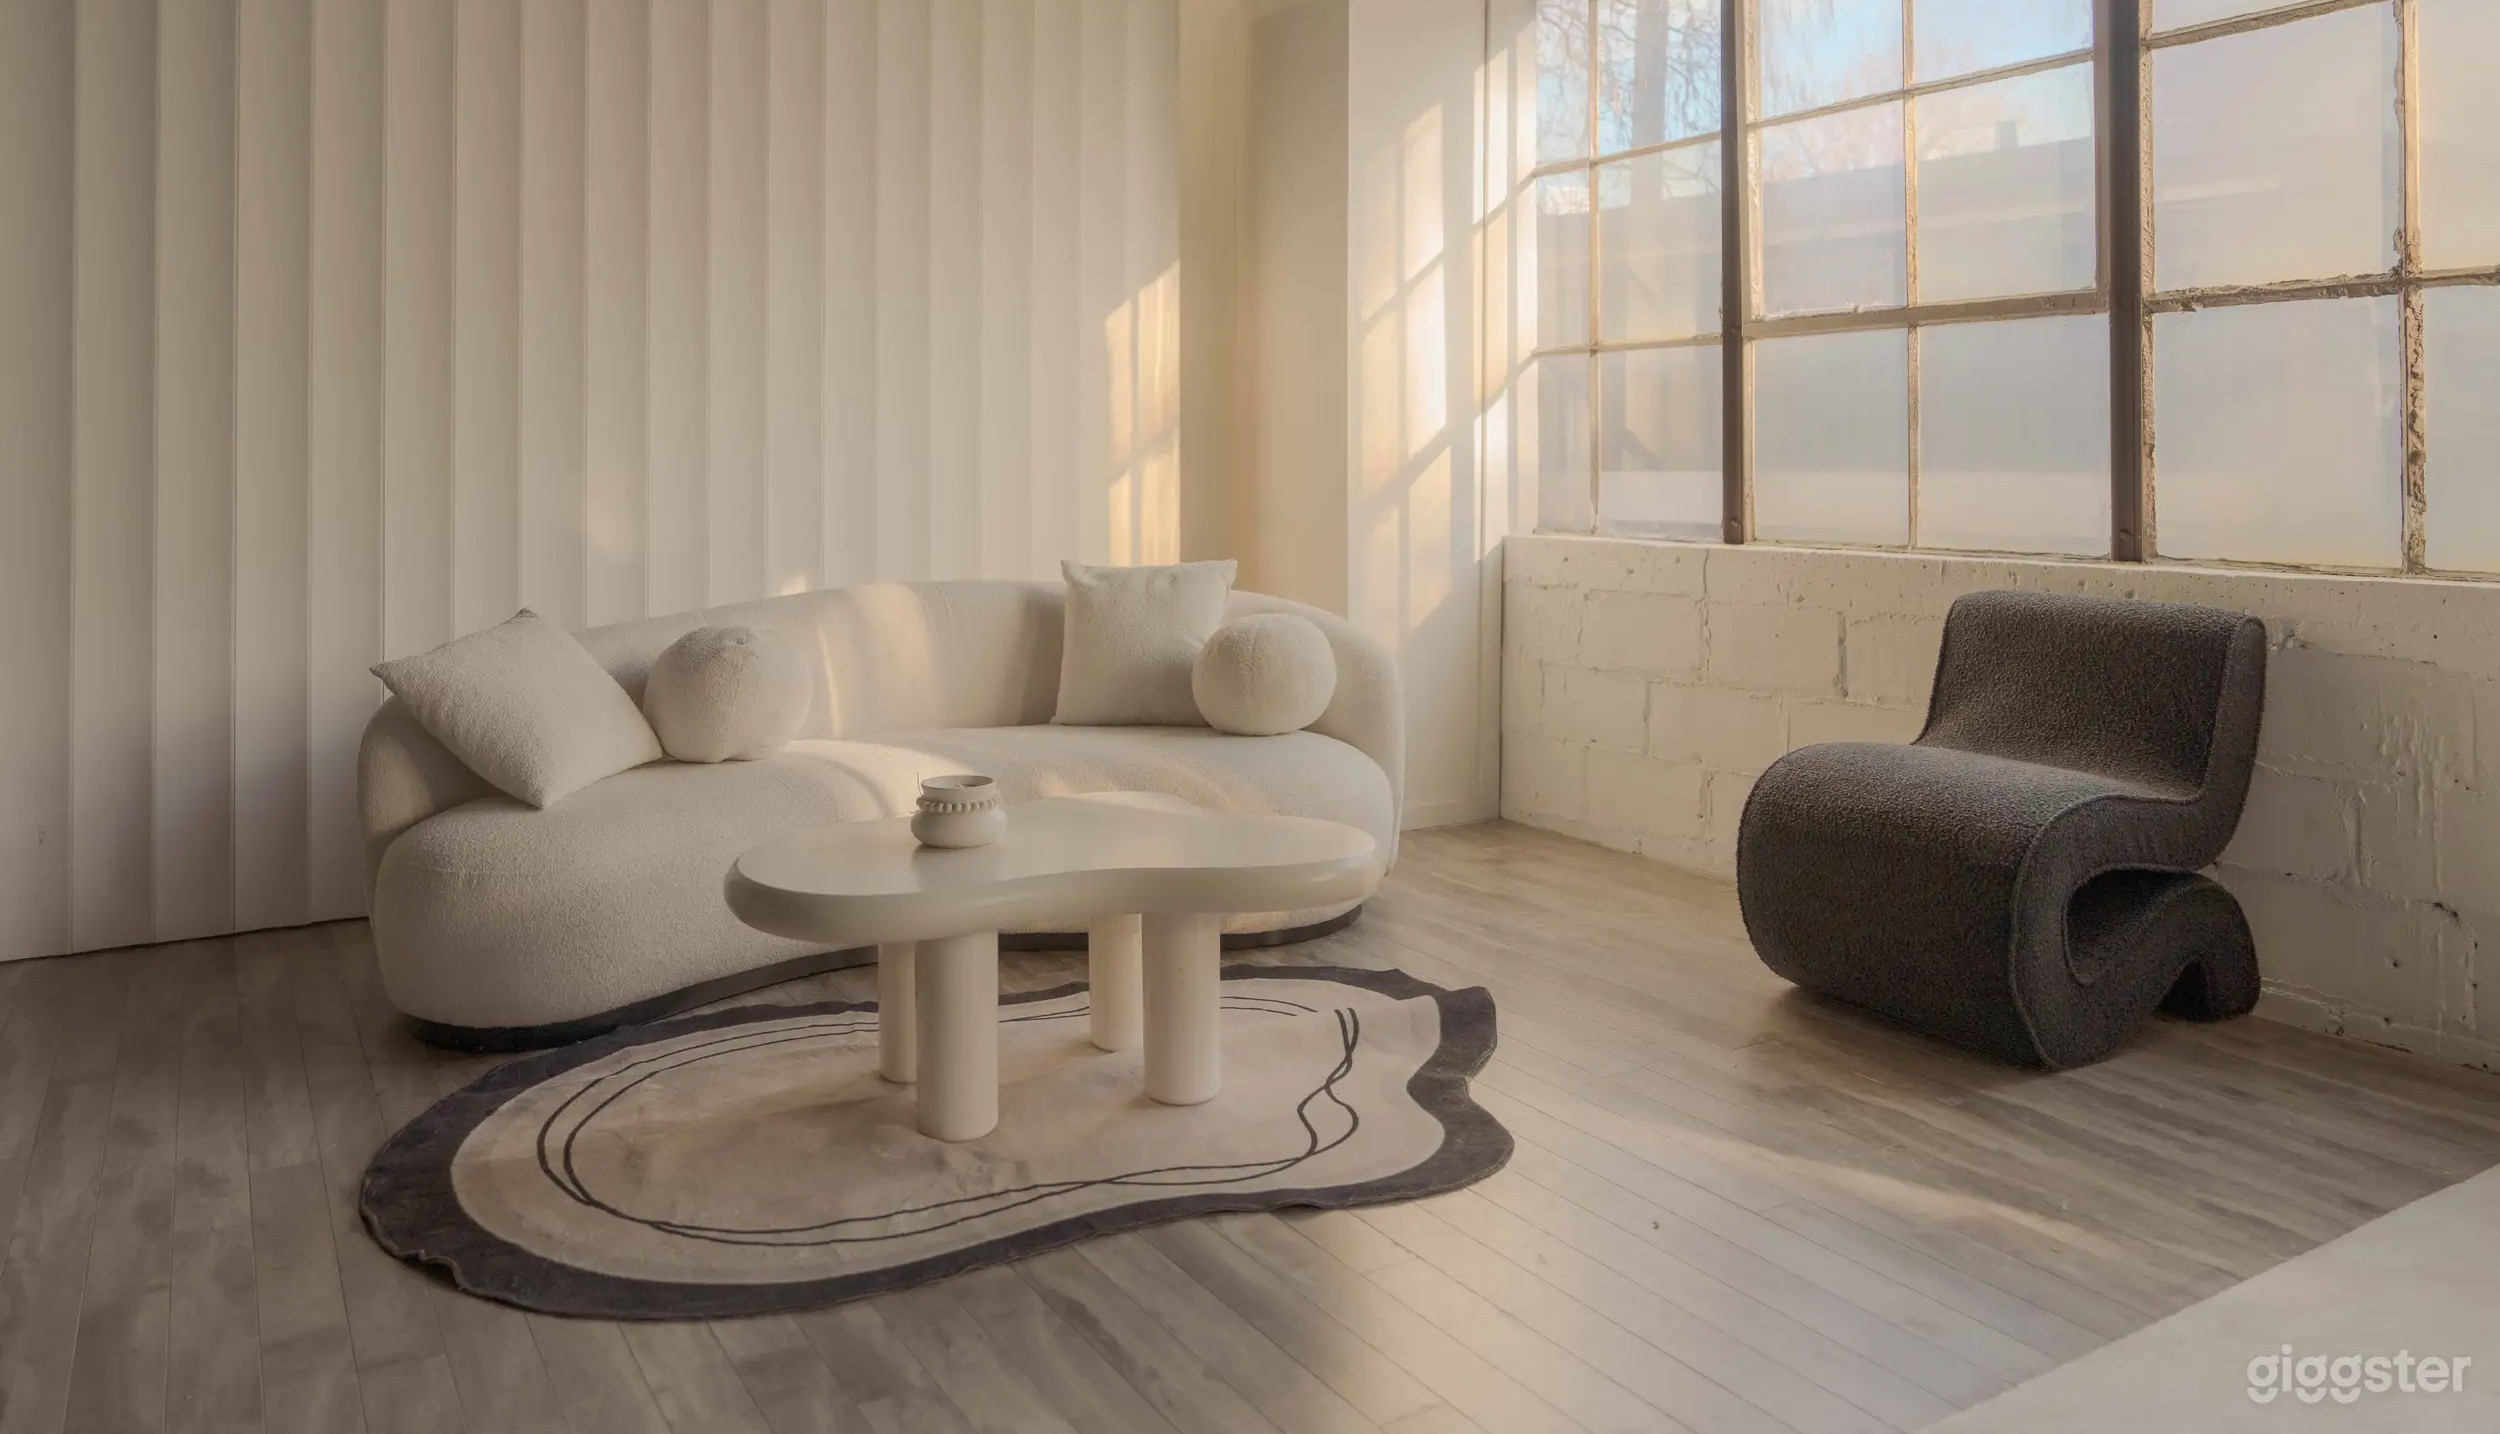
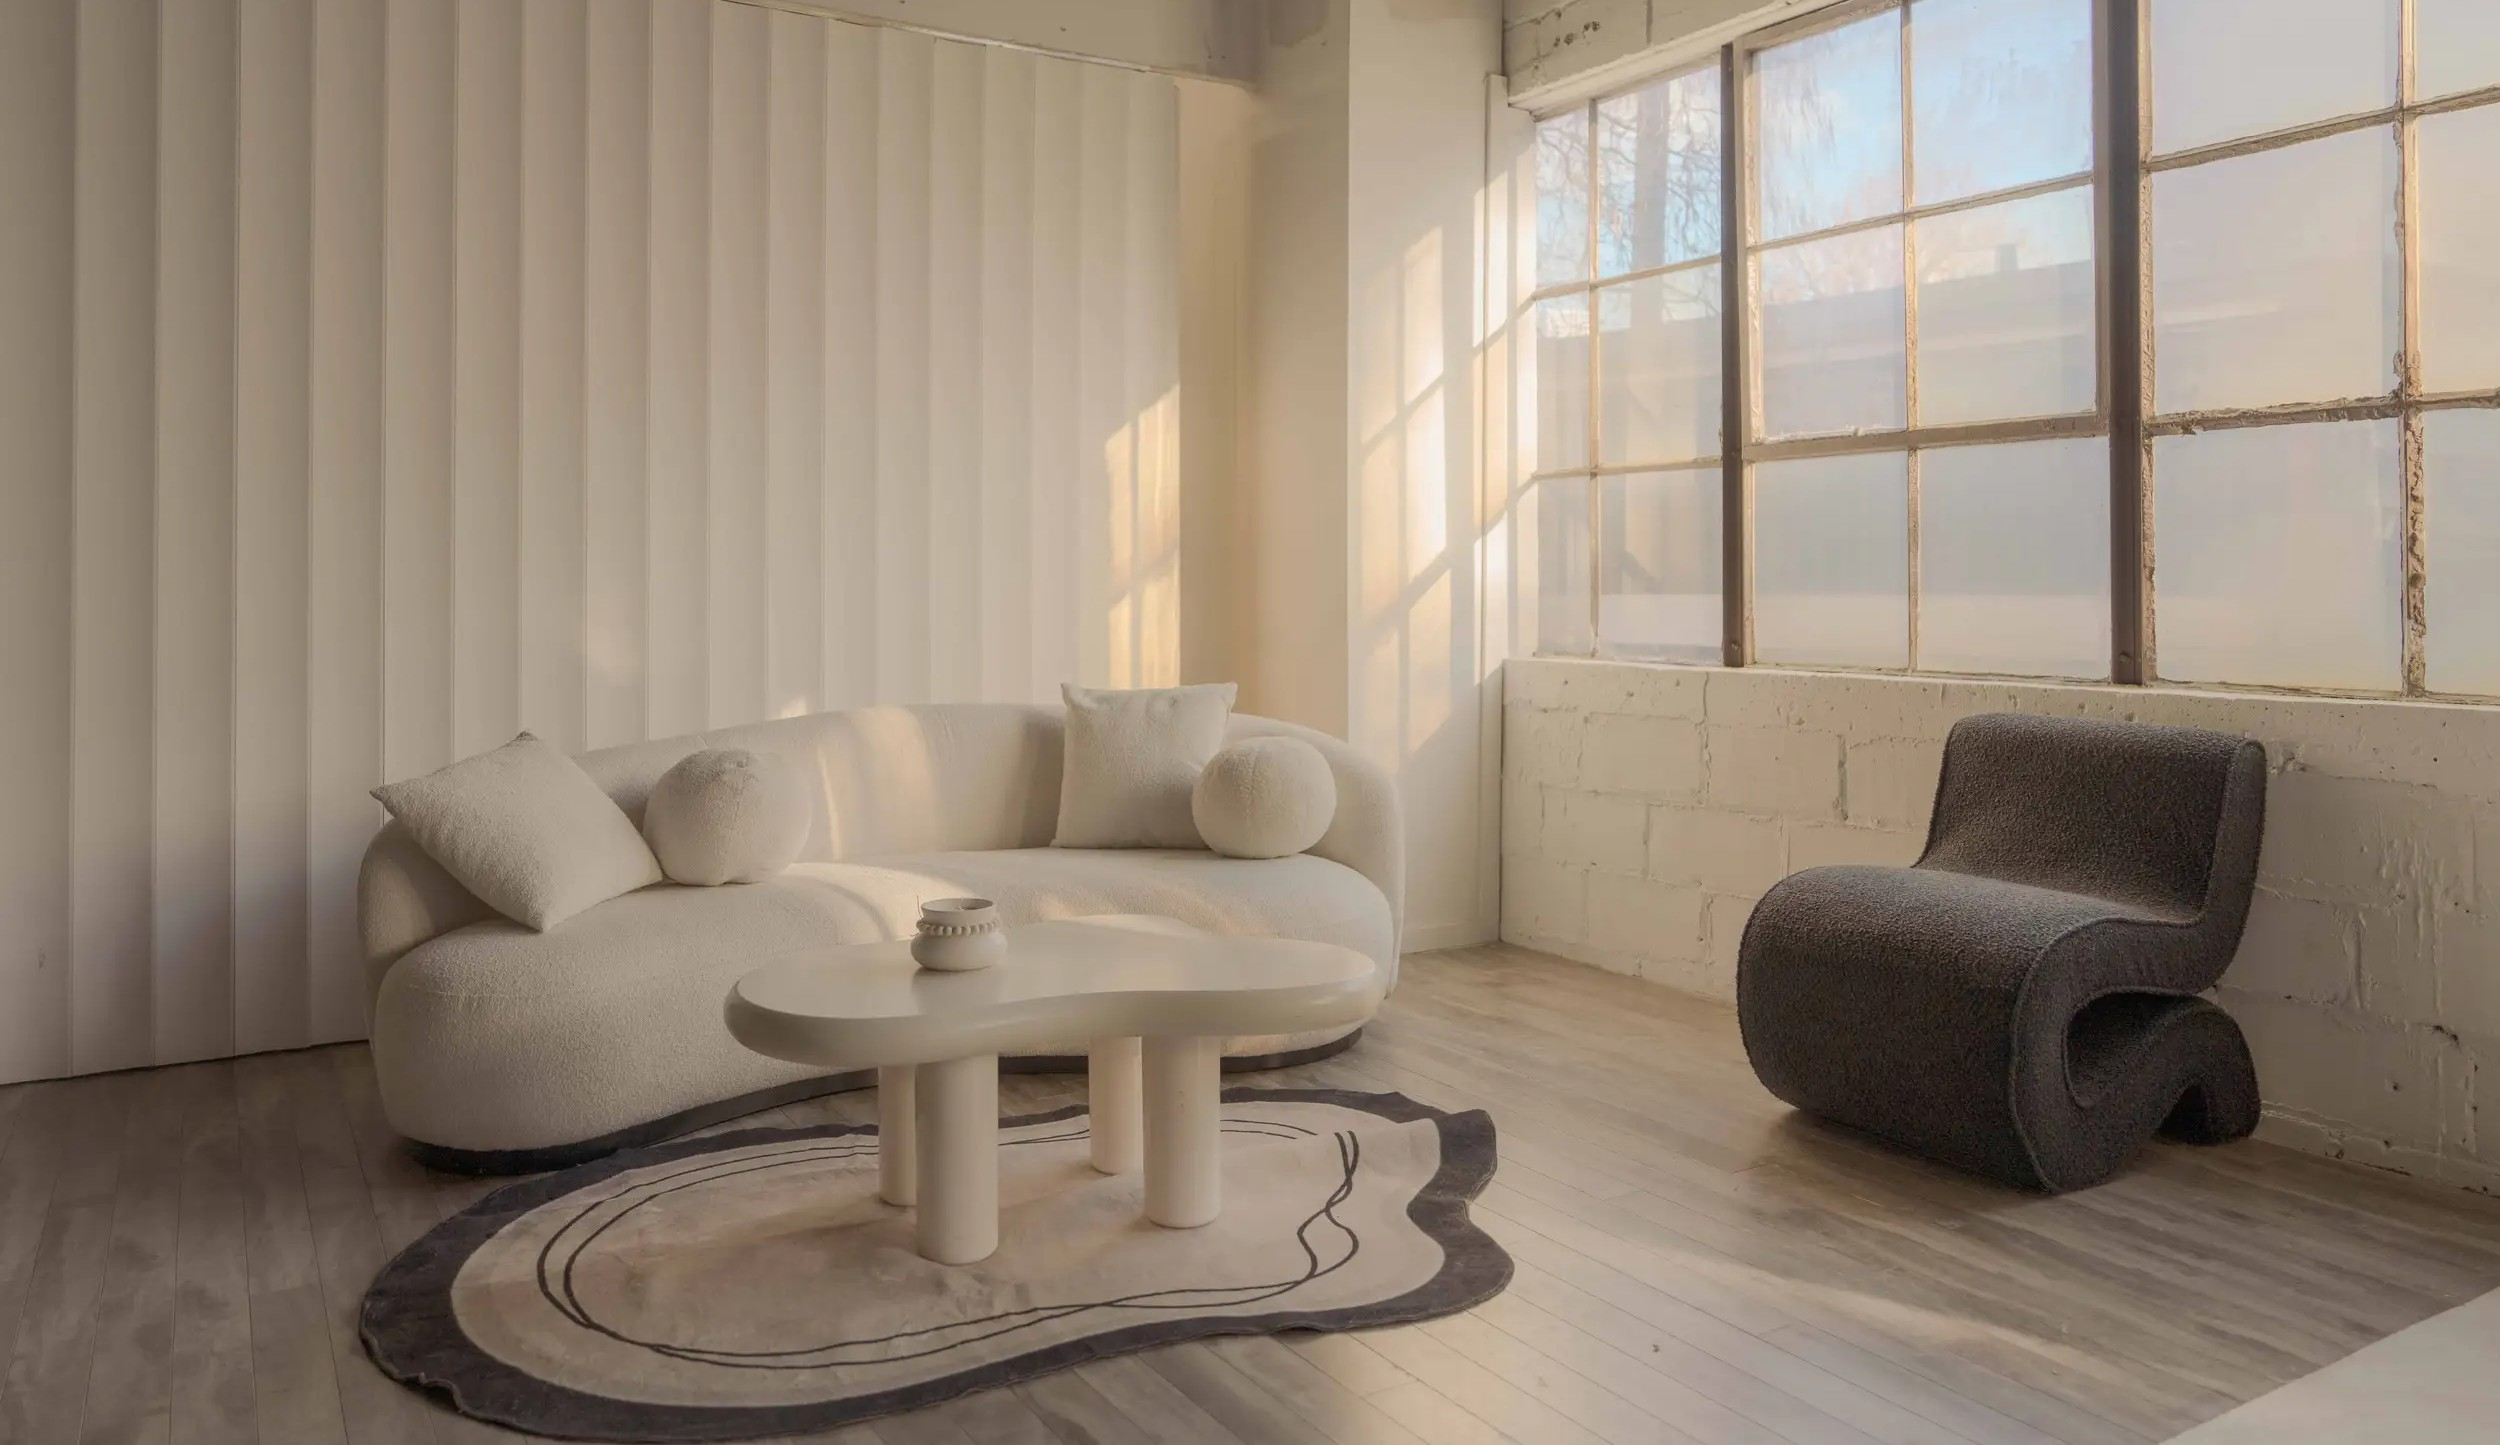
doehealthdesk2: hero photo recropped: a little more top back, bottom cut above the watermark

diff --git a/components/doehealth-desk2/DoeHealthDesk2Workspace.tsx b/components/doehealth-desk2/DoeHealthDesk2Workspace.tsx
@@ -61,7 +61,7 @@ export function DoeHealthDesk2Workspace() {
             src="/doehealthdesk2/newhero.jpg"
             alt="A bright, minimal lounge with a cream curved sofa, a sculpted coffee table and a grey lounge chair by a sunlit window"
             width={2500}
-            height={1434}
+            height={1445}
             sizes="(min-width: 1024px) 80vw, 100vw"
             priority
           />

diff --git a/lib/doehealthdesk2/doehealthdesk2.css b/lib/doehealthdesk2/doehealthdesk2.css
@@ -952,7 +952,7 @@
   container-type: inline-size;
   margin: 0;
   width: 100%;
-  aspect-ratio: 2500 / 1434;
+  aspect-ratio: 2500 / 1445;
   overflow: hidden;
   border-radius: var(--doehealth-desk2-radius);
 }
